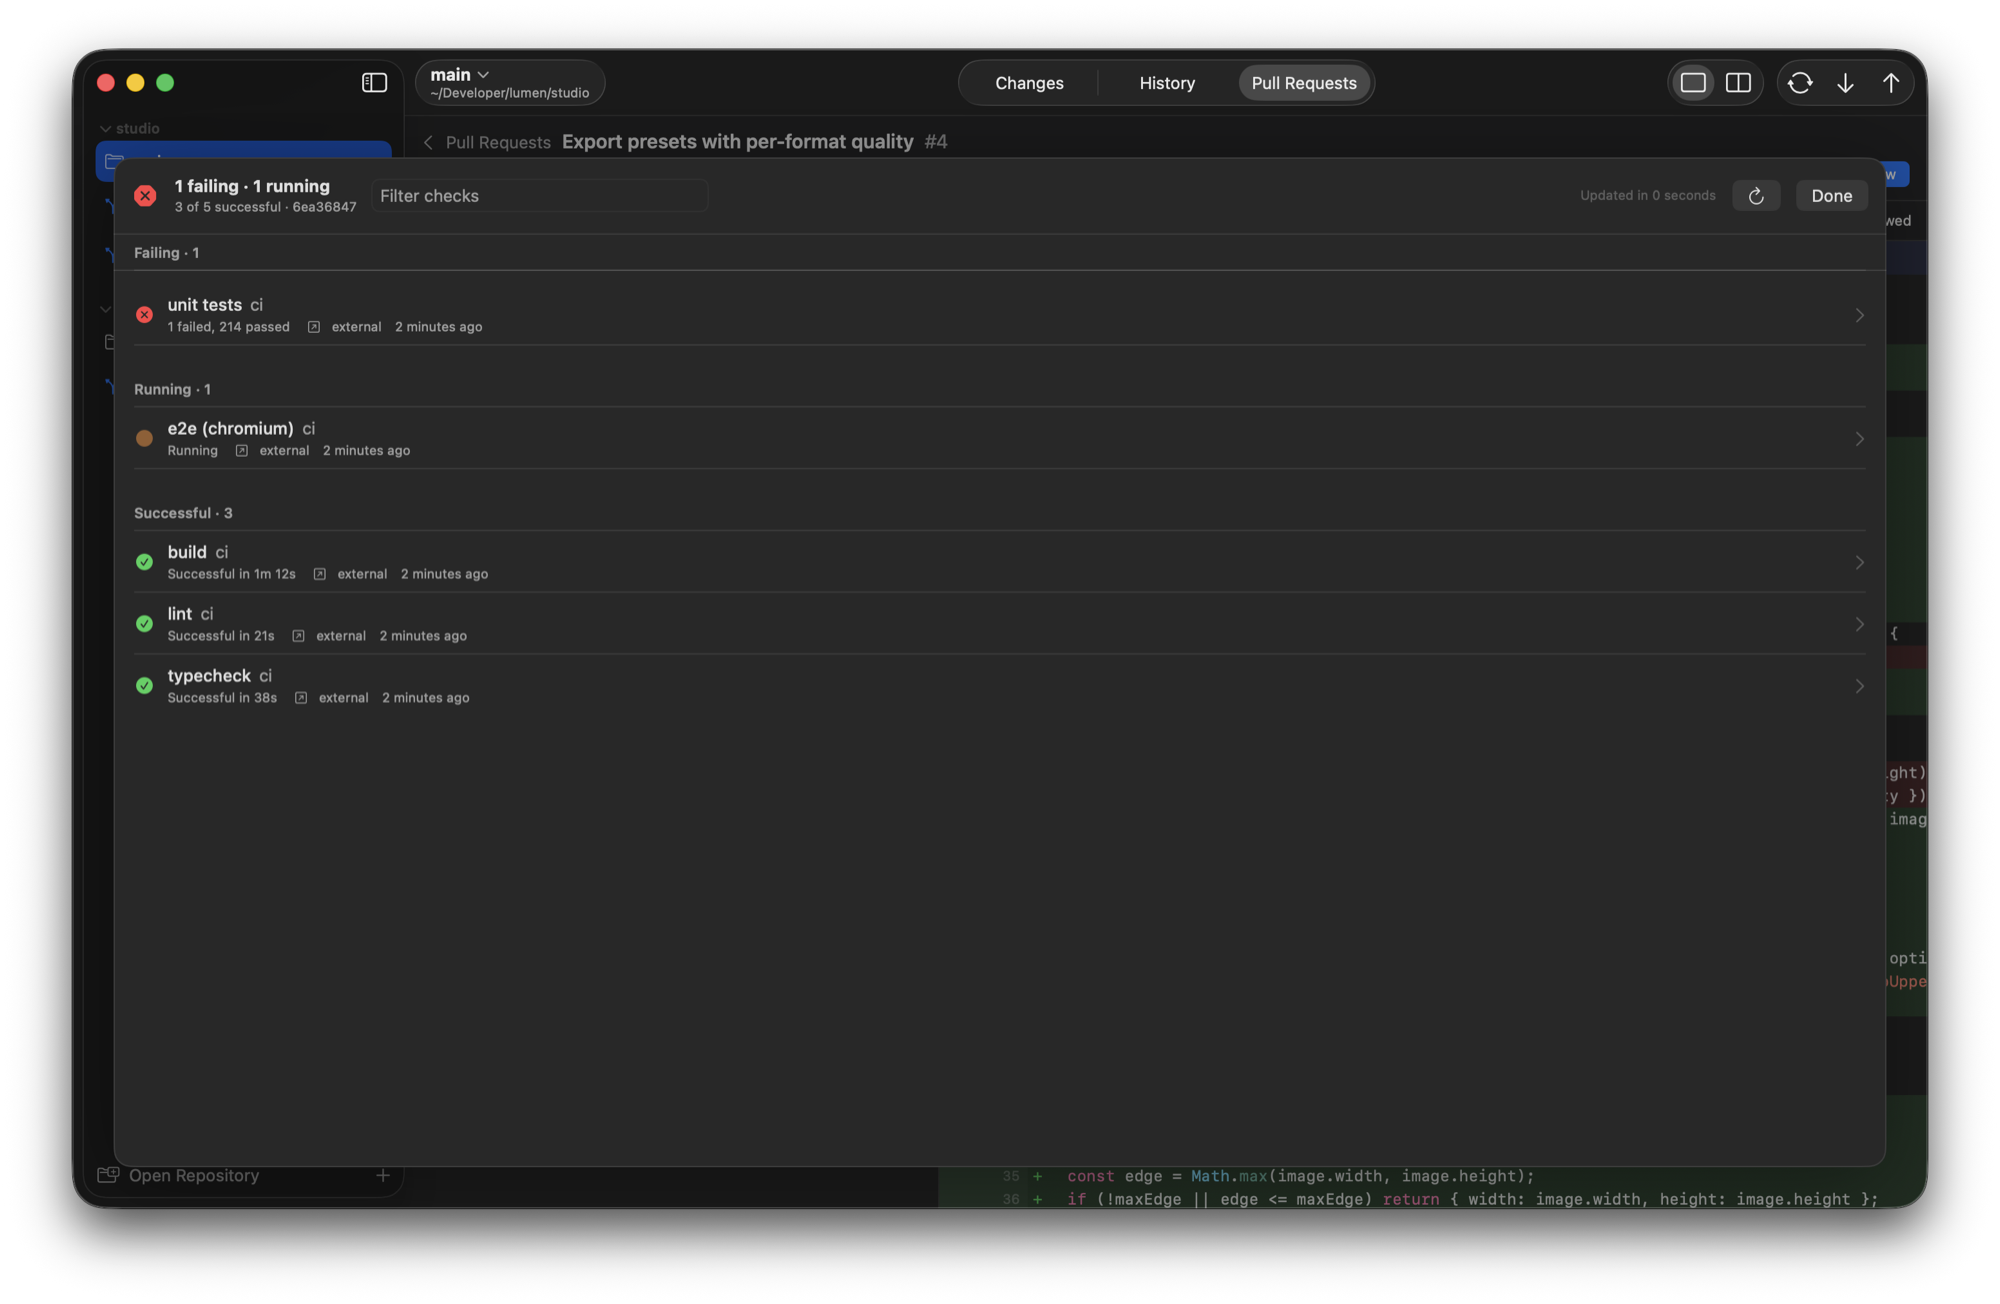
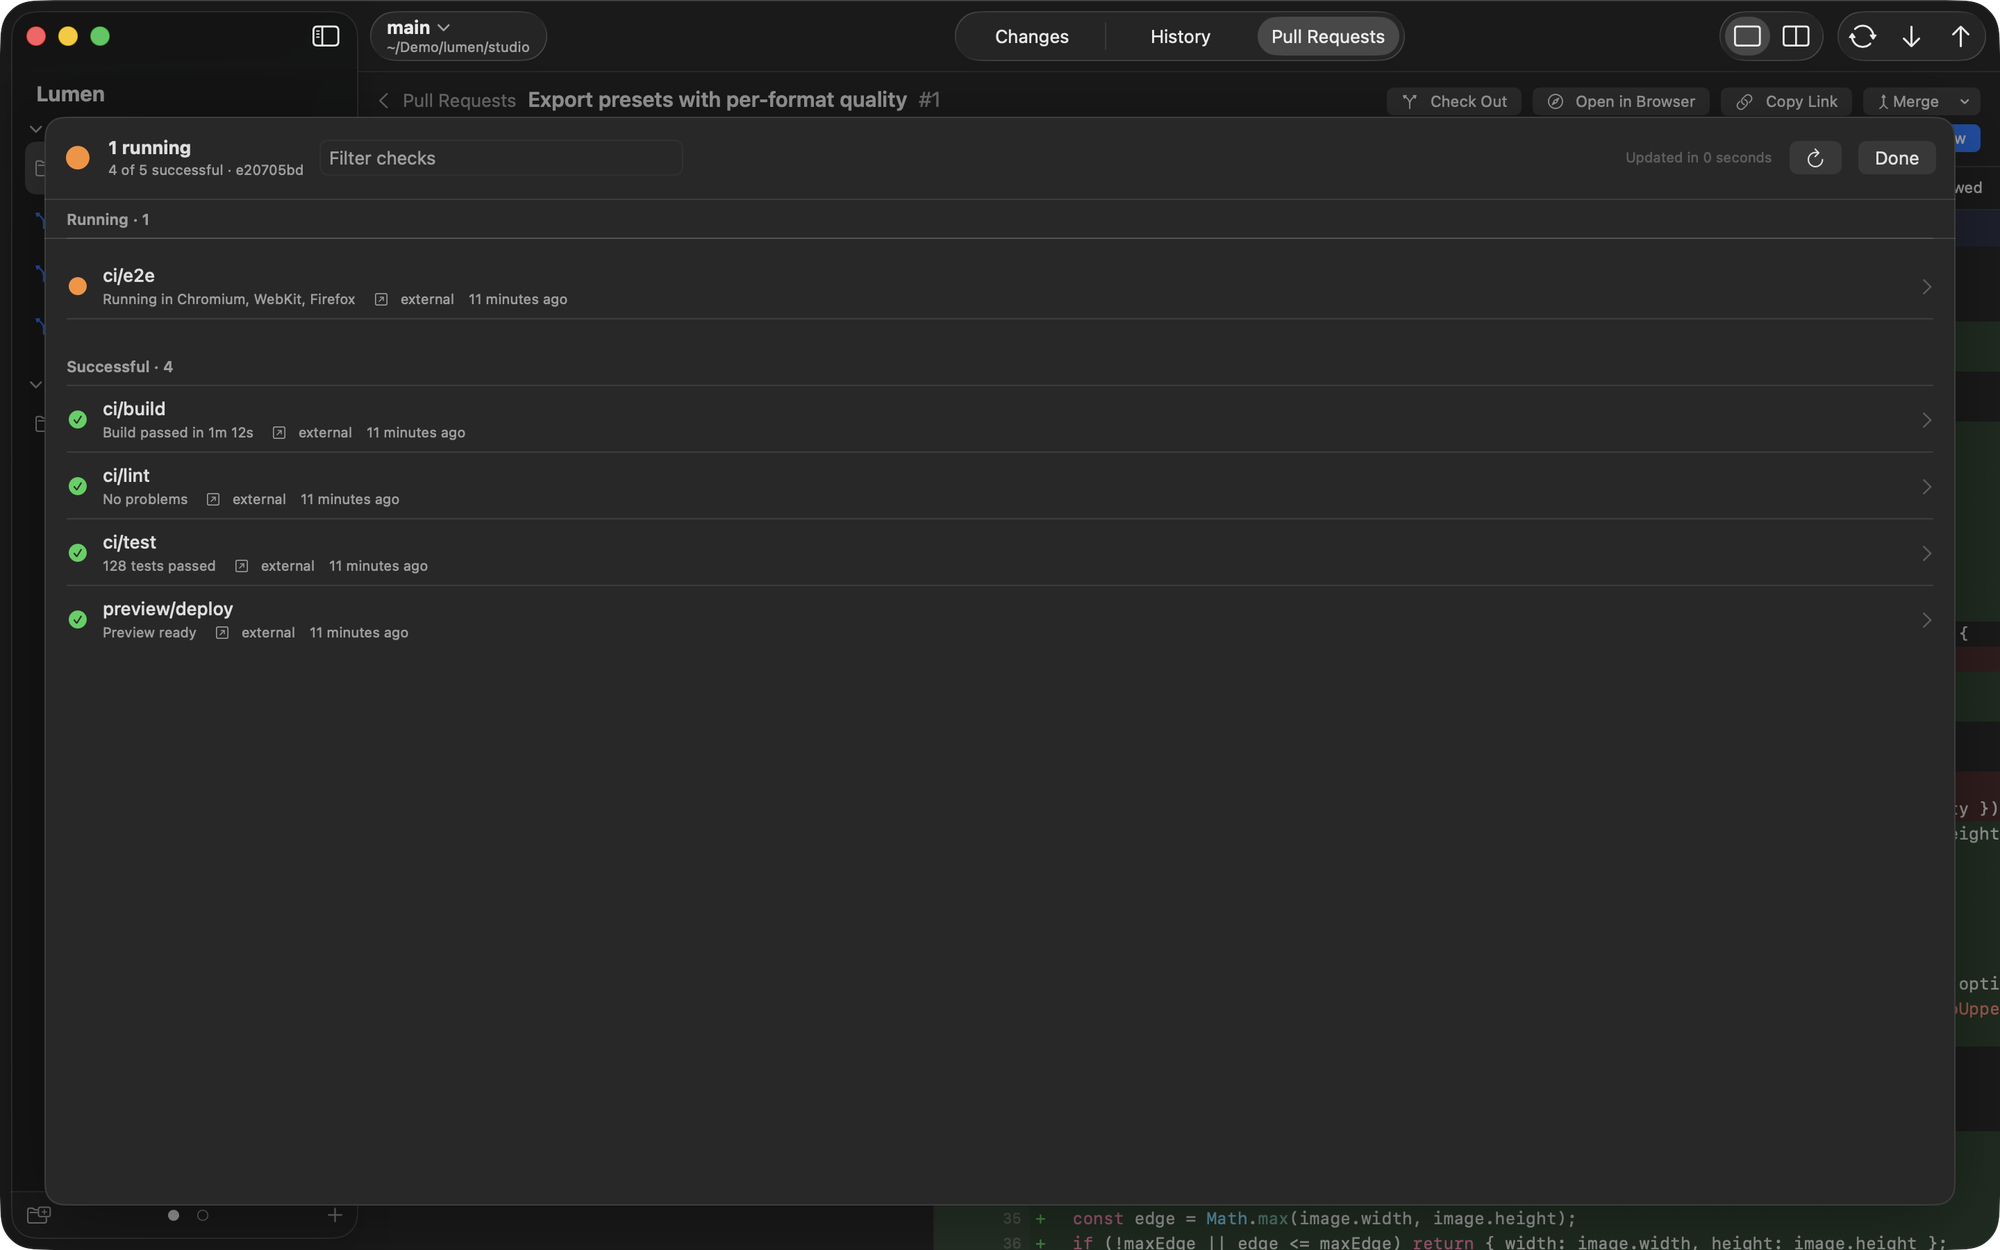
README: download link up front, and screenshots of spaces, checks, AI commit messages, the commit graph, the conflict resolver and blame

Changed region(s): [[0.0, 0.0, 1.0, 1.0], [0.806, 0.1248, 0.868, 0.156]]

diff --git a/README.md b/README.md
@@ -3,11 +3,10 @@
 A native macOS git client built for reviewing code: your own uncommitted changes, large pull requests on
 GitHub, Forgejo and Gitea, and many worktrees across many repositories, organised into spaces.
 
+**[Download Loupe for macOS](https://github.com/exTypen/loupe/releases/latest)**: free and open source, signed and
+notarized, for macOS 15 or later.
+
 ![Reviewing a pull request in Loupe](docs/pr.png)
-
-![Commit history of the checked-out branch](docs/history.png)
-
-![CI checks for a pull request](docs/checks.png)
 
 ## Highlights
 
@@ -17,10 +16,14 @@ GitHub, Forgejo or Gitea accounts, so the same server can have a different login
 push and pull request checkout over HTTPS use that space's token instead of whatever the system credential
 helper holds.
 
+![Two spaces, each with its own repositories and accounts](docs/spaces.png)
+
 **Review big pull requests on the desktop.** Viewed files that become unviewed again when a new push changes
 them, inline comments, drafts that survive restarts, Approve and Request Changes, merge, and CI checks with
 live Forgejo Actions logs. It works the same on GitHub, Forgejo and Gitea, and pull requests GitHub's web UI
 won't show (over 300 files or 20,000 lines) are diffed locally.
+
+![CI checks for a pull request](docs/checks.png)
 
 **Built for many worktrees.** Every repository lists all its worktrees with their branch, ahead/behind counts
 and uncommitted changes. ⌘K jumps between them, and a pull request checks out into its own worktree in one
@@ -32,6 +35,8 @@ and scrolls smoothly.
 **AI commit messages from the tool you already have.** ✨ in the commit box writes the message with Claude Code,
 Codex, Gemini CLI, GitHub Copilot CLI, Cursor CLI, opencode, Qwen Code, Amp or Factory Droid, whichever is
 installed, on your own subscription and in the tool's read-only mode. Pick the tool, the model and a style.
+
+![A commit message written from the staged change](docs/changes.png)
 
 Every git operation runs through the `git` command line, so hooks, commit signing and credential helpers behave
 exactly as they do in your terminal.
@@ -59,12 +64,19 @@ exactly as they do in your terminal.
 - When a merge, cherry-pick, revert or rebase stops on conflicts, a banner offers Abort and Continue, and each
   conflict shows its two sides with Use Current, Use Incoming and Use Both.
 
+![Resolving a cherry-pick conflict](docs/conflicts.png)
+
 **History**
+
+![All branches with the commit graph](docs/history.png)
+
 - The current branch, all branches, any single branch, or your stashes, with a commit graph and each commit's
   full diff. Search by message or author.
 - Cherry-pick a commit onto your branch, or revert one. Apply, pop or drop a stash.
 - Blame and file history for any file in their own window. Blame can step back to before a commit; file
   history follows renames.
+
+![Blame](docs/blame.png)
 - Start a new worktree from any commit.
 
 **Pull requests**
